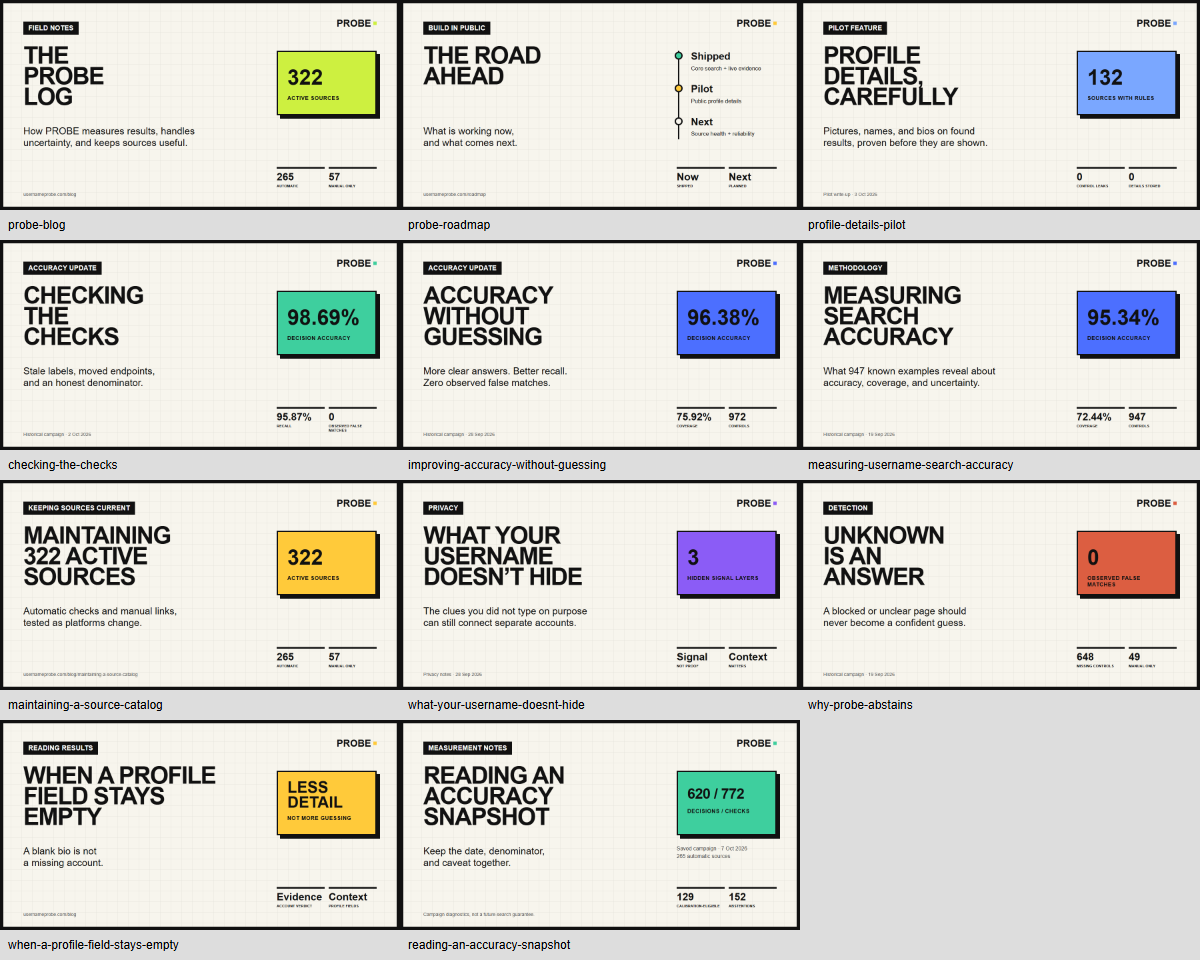
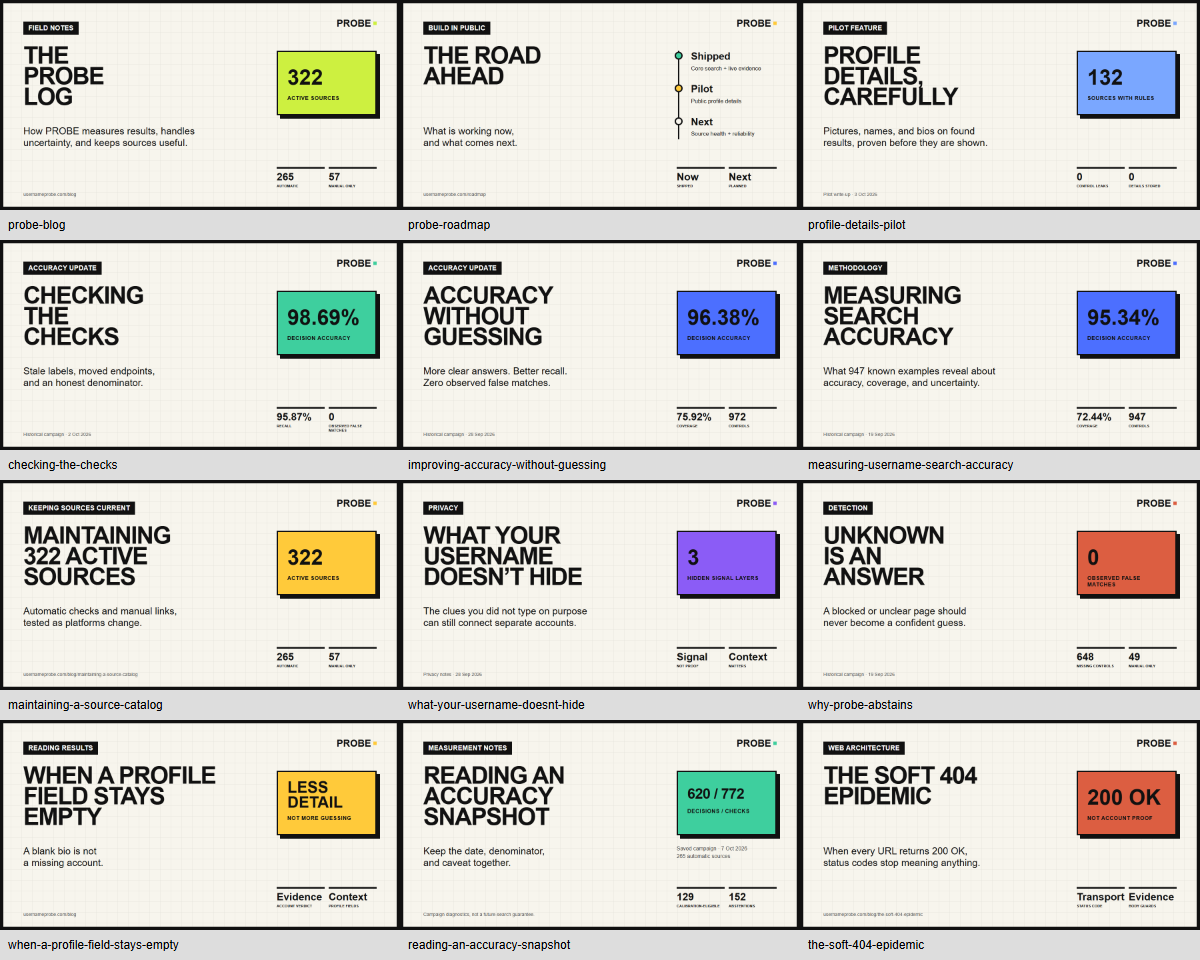
Publish articles on soft 404s and catalog decay
Add editorial posts covering single-page application soft-404 detection and catalog churn pruning. Include verified 1200x630 social preview cards matching the unified brand geometry, with clean routes, redirects, sitemap updates, captions, and tests.

Changed region(s): [[0.6475, 0.75, 1.0, 1.0]]

diff --git a/blog/the-soft-404-epidemic.html b/blog/the-soft-404-epidemic.html
@@ -1,0 +1,79 @@
+<!DOCTYPE html>
+<html lang="en">
+<head>
+  <meta charset="UTF-8">
+  <meta name="viewport" content="width=device-width, initial-scale=1.0">
+  <title>The Soft 404 Epidemic | PROBE</title>
+  <meta name="description" content="Why single-page applications and client-side routers break naive status-code scanners, and how PROBE requires positive proof before claiming a match.">
+  <link rel="canonical" href="https://usernameprobe.com/blog/the-soft-404-epidemic">
+  <link rel="icon" href="/favicon.svg" type="image/svg+xml">
+  <meta property="og:type" content="article">
+  <meta property="og:title" content="The Soft 404 Epidemic">
+  <meta property="og:description" content="When every URL returns 200 OK, status codes stop meaning anything. How modern web architecture creates phantom profiles.">
+  <meta property="og:url" content="https://usernameprobe.com/blog/the-soft-404-epidemic">
+  <meta property="og:image" content="https://usernameprobe.com/social/the-soft-404-epidemic.png?v=7">
+  <meta property="og:image:secure_url" content="https://usernameprobe.com/social/the-soft-404-epidemic.png?v=7">
+  <meta property="og:image:type" content="image/png">
+  <meta property="og:image:width" content="1200">
+  <meta property="og:image:height" content="630">
+  <meta property="og:image:alt" content="The Soft 404 Epidemic: HTTP 200 is not account proof when client-side apps return empty shells.">
+  <meta property="article:published_time" content="2026-10-12">
+  <meta property="article:modified_time" content="2026-10-12">
+  <meta name="twitter:card" content="summary_large_image">
+  <meta name="twitter:title" content="The Soft 404 Epidemic">
+  <meta name="twitter:description" content="When every URL returns 200 OK, status codes stop meaning anything. How modern web architecture creates phantom profiles.">
+  <meta name="twitter:image" content="https://usernameprobe.com/social/the-soft-404-epidemic.png?v=7">
+  <meta name="twitter:image:alt" content="The Soft 404 Epidemic: HTTP 200 is not account proof when client-side apps return empty shells.">
+  <script type="application/ld+json">
+  {
+    "@context": "https://schema.org",
+    "@type": "BlogPosting",
+    "headline": "The Soft 404 Epidemic",
+    "description": "Why single-page applications and client-side routers break naive status-code scanners, and how PROBE requires positive proof before claiming a match.",
+    "url": "https://usernameprobe.com/blog/the-soft-404-epidemic",
+    "mainEntityOfPage": "https://usernameprobe.com/blog/the-soft-404-epidemic",
+    "image": "https://usernameprobe.com/social/the-soft-404-epidemic.png?v=7",
+    "datePublished": "2026-10-12",
+    "dateModified": "2026-10-12",
+    "author": { "@type": "Organization", "name": "PROBE", "url": "https://usernameprobe.com/" },
+    "publisher": { "@type": "Organization", "name": "PROBE", "url": "https://usernameprobe.com/", "logo": { "@type": "ImageObject", "url": "https://usernameprobe.com/favicon.svg" } }
+  }
+  </script>
+  <link rel="preconnect" href="https://fonts.googleapis.com">
+  <link rel="preconnect" href="https://fonts.gstatic.com" crossorigin>
+  <link rel="stylesheet" href="https://fonts.googleapis.com/css2?family=Inter:wght@300;400;500;600;700&family=Outfit:wght@400;500;600;700&family=Bebas+Neue&display=swap">
+  <link rel="stylesheet" href="/styles.min.css?v=20">
+  <link rel="stylesheet" href="/editorial.min.css?v=4">
+</head>
+<body class="editorial-body">
+  <nav class="navbar editorial-nav"><div class="nav-container"><a href="/" class="nav-logo">PROBE</a><a class="editorial-nav-back" href="/blog/">All posts</a></div></nav>
+  <main class="editorial-main article-main">
+    <article>
+      <header class="article-header">
+        <p class="editorial-kicker">Web architecture</p>
+        <h1 class="editorial-title article-title">The Soft 404 Epidemic</h1>
+        <p class="editorial-deck">When modern single-page applications return HTTP 200 OK for every path, naive scanners find phantom profiles everywhere.</p>
+        <div class="article-meta"><time datetime="2026-10-12">12 October 2026</time><span>4 min read</span></div>
+      </header>
+      <div class="article-copy">
+        <p>In the early web, determining whether an account existed was relatively straightforward: an existing page returned <code>200 OK</code>, while an absent one returned <code>404 Not Found</code>. Many legacy open-source intelligence tools were built entirely on this assumption.</p>
+        <p>Today, that mental model is broken. Modern web applications built on client-side frameworks routinely return <code>200 OK</code> along with a generic HTML shell on every requested route, whether the username exists or not.</p>
+        <h2>Transport signal vs. resource signal</h2>
+        <p>Single-page applications (SPAs) shift routing from the web server to client-side JavaScript. When a request arrives at <code>/user/johndoe</code>, the edge server simply delivers <code>index.html</code> containing a skeleton layout and a script tag. The browser then executes the script, queries an API asynchronously, and decides whether to render a user profile or a "User not found" screen.</p>
+        <p>To an automated HTTP client, the HTTP status code is merely a transport signal confirming that the web server successfully delivered the application bundle. It tells you nothing about whether the profile itself exists. A scanner checking only HTTP response codes will report that every username exists on every SPA platform.</p>
+        <h2>The anatomy of positive proof</h2>
+        <p>Because response codes cannot be trusted in isolation, PROBE evaluates layers of evidence before classifying a result:</p>
+        <ul>
+          <li><strong>Paired negative baselines.</strong> A check rule is tested against random, synthetic handles known not to exist. If the site returns the exact same HTML structure and status code for a nonsense handle, status alone cannot serve as an existence marker.</li>
+          <li><strong>Body guards and negative patterns.</strong> When a platform returns an in-page 404 message within a 200 response (e.g., "Page not found", "User does not exist", or a redirect to an onboarding flow), PROBE matches source-specific absence patterns.</li>
+          <li><strong>Positive corroboration.</strong> For platforms prone to generic shells, PROBE requires verifiable positive markers—such as the username appearing in the page <code>&lt;title&gt;</code>, OpenGraph metadata tags, or specific server-rendered profile elements—before emitting a <code>found</code> verdict.</li>
+        </ul>
+        <h2>When evidence is missing: abstain</h2>
+        <p>What happens when a modern web app serves a minimal app shell without server-side rendering, and the client-side JavaScript refuses to render in a plain HTTP request? The response contains no positive profile markers, but also no clear error signal.</p>
+        <p>Many tools guess, or worse, mark it as positive based on the status code. PROBE classifies these responses as <code>unknown</code>. When web architecture obscures the presence of an account, an honest abstention is always better than a fabricated lead.</p>
+      </div>
+    </article>
+  </main>
+  <footer class="footer"><div class="container footer-inner"><div class="footer-brand"><span class="footer-logo">PROBE</span><p>Open-source username research with evidence-aware results.</p></div><nav class="footer-links" aria-label="Footer navigation"><div><span class="footer-label">Explore</span><a href="/#search">Search</a><a href="/#about">About</a><a href="/#sites">Platforms</a></div><div><span class="footer-label">Follow the work</span><a href="/blog/">Blog</a><a href="/roadmap">Roadmap</a></div><div><span class="footer-label">Use responsibly</span><a href="/privacy">Privacy &amp; acceptable use</a><a href="/#contact">Contact</a></div></nav></div><div class="container footer-bottom"><span>Public data is a lead, not proof. Verify before drawing conclusions.</span><span>&copy; 2026 PROBE</span></div></footer>
+</body>
+</html>

diff --git a/blog/decay-of-the-open-web.html b/blog/decay-of-the-open-web.html
@@ -1,0 +1,77 @@
+<!DOCTYPE html>
+<html lang="en">
+<head>
+  <meta charset="UTF-8">
+  <meta name="viewport" content="width=device-width, initial-scale=1.0">
+  <title>Decay of the Open Web | PROBE</title>
+  <meta name="description" content="Over half of historical OSINT username targets are defunct. Why catalog size is a vanity metric and ruthless source pruning protects scan integrity.">
+  <link rel="canonical" href="https://usernameprobe.com/blog/decay-of-the-open-web">
+  <link rel="icon" href="/favicon.svg" type="image/svg+xml">
+  <meta property="og:type" content="article">
+  <meta property="og:title" content="Decay of the Open Web">
+  <meta property="og:description" content="Over half of historical OSINT targets are defunct. Why pruning dead sources preserves scan speed and prevents phantom matches.">
+  <meta property="og:url" content="https://usernameprobe.com/blog/decay-of-the-open-web">
+  <meta property="og:image" content="https://usernameprobe.com/social/decay-of-the-open-web.png?v=7">
+  <meta property="og:image:secure_url" content="https://usernameprobe.com/social/decay-of-the-open-web.png?v=7">
+  <meta property="og:image:type" content="image/png">
+  <meta property="og:image:width" content="1200">
+  <meta property="og:image:height" content="630">
+  <meta property="og:image:alt" content="Decay of the Open Web: 341 defunct sources archived vs 322 active sources maintained. Pruning preserves integrity.">
+  <meta property="article:published_time" content="2026-10-12">
+  <meta property="article:modified_time" content="2026-10-12">
+  <meta name="twitter:card" content="summary_large_image">
+  <meta name="twitter:title" content="Decay of the Open Web">
+  <meta name="twitter:description" content="Over half of historical OSINT targets are defunct. Why pruning dead sources preserves scan speed and prevents phantom matches.">
+  <meta name="twitter:image" content="https://usernameprobe.com/social/decay-of-the-open-web.png?v=7">
+  <meta name="twitter:image:alt" content="Decay of the Open Web: 341 defunct sources archived vs 322 active sources maintained. Pruning preserves integrity.">
+  <script type="application/ld+json">
+  {
+    "@context": "https://schema.org",
+    "@type": "BlogPosting",
+    "headline": "Decay of the Open Web",
+    "description": "Over half of historical OSINT username targets are defunct. Why catalog size is a vanity metric and ruthless source pruning protects scan integrity.",
+    "url": "https://usernameprobe.com/blog/decay-of-the-open-web",
+    "mainEntityOfPage": "https://usernameprobe.com/blog/decay-of-the-open-web",
+    "image": "https://usernameprobe.com/social/decay-of-the-open-web.png?v=7",
+    "datePublished": "2026-10-12",
+    "dateModified": "2026-10-12",
+    "author": { "@type": "Organization", "name": "PROBE", "url": "https://usernameprobe.com/" },
+    "publisher": { "@type": "Organization", "name": "PROBE", "url": "https://usernameprobe.com/", "logo": { "@type": "ImageObject", "url": "https://usernameprobe.com/favicon.svg" } }
+  }
+  </script>
+  <link rel="preconnect" href="https://fonts.googleapis.com">
+  <link rel="preconnect" href="https://fonts.gstatic.com" crossorigin>
+  <link rel="stylesheet" href="https://fonts.googleapis.com/css2?family=Inter:wght@300;400;500;600;700&family=Outfit:wght@400;500;600;700&family=Bebas+Neue&display=swap">
+  <link rel="stylesheet" href="/styles.min.css?v=20">
+  <link rel="stylesheet" href="/editorial.min.css?v=4">
+</head>
+<body class="editorial-body">
+  <nav class="navbar editorial-nav"><div class="nav-container"><a href="/" class="nav-logo">PROBE</a><a class="editorial-nav-back" href="/blog/">All posts</a></div></nav>
+  <main class="editorial-main article-main">
+    <article>
+      <header class="article-header">
+        <p class="editorial-kicker">Catalog churn</p>
+        <h1 class="editorial-title article-title">Decay of the Open Web</h1>
+        <p class="editorial-deck">Over half of historical username targets no longer exist. Why catalog size is a vanity metric that harms scan fidelity.</p>
+        <div class="article-meta"><time datetime="2026-10-12">12 October 2026</time><span>4 min read</span></div>
+      </header>
+      <div class="article-copy">
+        <p>In the open-source intelligence community, there is a persistent temptation to compete on raw catalog counts. Tools advertise "500+ sites," "1,000+ sources," or "comprehensive global coverage." Yet when you inspect the underlying lists, a surprising proportion of those domains are dead, parked, or broken.</p>
+        <p>In PROBE's source history, <strong>341 catalog entries are now defunct</strong>, while <strong>322 functional sources</strong> remain active (265 automatic checks and 57 manual links). Over half of the platforms ever indexed have ceased to function as public profile hosts.</p>
+        <div class="article-metric" aria-label="Catalog comparison"><div><strong>322</strong><span>active functional sources</span></div><div><strong>341</strong><span>archived defunct targets</span></div><div><strong>44</strong><span>recently trimmed blocked sources</span></div></div>
+        <h2>The true cost of dead sources</h2>
+        <p>Leaving dead domains in an active scanner is not harmless padding; it actively corrupts scan performance and result quality:</p>
+        <ul>
+          <li><strong>DNS timeouts and connection hangs.</strong> When an expired domain fails to resolve or routes to an abandoned nameserver, requests hang until client deadlines elapse. A scan intended to finish in seconds bogs down waiting for unresolvable hosts.</li>
+          <li><strong>Parked domains and wildcards.</strong> Expired startup domains are frequently snapped up by domain squatters who configure wildcard DNS. Every path—from <code>/johndoe</code> to <code>/gibberish12345</code>—returns a <code>200 OK</code> ad parking page. A naive scanner interprets this as a confirmed match.</li>
+          <li><strong>Domain takeovers and security risks.</strong> Defunct domains can be re-registered to host phishing or malicious redirection, exposing users who click into external verification links to potential harm.</li>
+        </ul>
+        <h2>Why pruning beats inflation</h2>
+        <p>Recently, PROBE removed 44 catalog entries that consistently blocked requests or failed to provide reliable public signals. Rather than keeping them to inflate our marketing headline to "366 sources," we pruned them from the primary scan pipeline and quarantined them for targeted lab analysis.</p>
+        <p>A smaller, rigorously verified catalog of 322 sources finishes faster, produces zero false positives in continuous calibration testing, and respects the researcher's time. In username intelligence, what you choose not to check is just as important as what you do.</p>
+      </div>
+    </article>
+  </main>
+  <footer class="footer"><div class="container footer-inner"><div class="footer-brand"><span class="footer-logo">PROBE</span><p>Open-source username research with evidence-aware results.</p></div><nav class="footer-links" aria-label="Footer navigation"><div><span class="footer-label">Explore</span><a href="/#search">Search</a><a href="/#about">About</a><a href="/#sites">Platforms</a></div><div><span class="footer-label">Follow the work</span><a href="/blog/">Blog</a><a href="/roadmap">Roadmap</a></div><div><span class="footer-label">Use responsibly</span><a href="/privacy">Privacy &amp; acceptable use</a><a href="/#contact">Contact</a></div></nav></div><div class="container footer-bottom"><span>Public data is a lead, not proof. Verify before drawing conclusions.</span><span>&copy; 2026 PROBE</span></div></footer>
+</body>
+</html>

diff --git a/blog/index.html b/blog/index.html
@@ -31,6 +31,8 @@
     "url": "https://usernameprobe.com/blog/",
     "publisher": { "@type": "Organization", "name": "PROBE", "url": "https://usernameprobe.com/" },
     "blogPost": [
+      { "@type": "BlogPosting", "headline": "The Soft 404 Epidemic", "url": "https://usernameprobe.com/blog/the-soft-404-epidemic", "datePublished": "2026-10-12" },
+      { "@type": "BlogPosting", "headline": "Decay of the Open Web", "url": "https://usernameprobe.com/blog/decay-of-the-open-web", "datePublished": "2026-10-12" },
       { "@type": "BlogPosting", "headline": "When a Profile Field Stays Empty", "url": "https://usernameprobe.com/blog/when-a-profile-field-stays-empty", "datePublished": "2026-10-07" },
       { "@type": "BlogPosting", "headline": "Reading an Accuracy Snapshot", "url": "https://usernameprobe.com/blog/reading-an-accuracy-snapshot", "datePublished": "2026-10-07" },
       { "@type": "BlogPosting", "headline": "Profile Details, Carefully", "url": "https://usernameprobe.com/blog/profile-details-pilot", "datePublished": "2026-10-03" },
@@ -71,6 +73,16 @@
     </header>
 
     <div class="post-list" aria-label="Blog posts">
+      <a class="post-row" href="/blog/the-soft-404-epidemic">
+        <time class="post-date" datetime="2026-10-12">12 Oct 2026</time>
+        <div><h2>The Soft 404 Epidemic</h2><p>When modern single-page applications return HTTP 200 OK for every path, naive scanners find phantom profiles everywhere.</p></div>
+        <span class="post-arrow" aria-hidden="true">↗</span>
+      </a>
+      <a class="post-row" href="/blog/decay-of-the-open-web">
+        <time class="post-date" datetime="2026-10-12">12 Oct 2026</time>
+        <div><h2>Decay of the Open Web</h2><p>Over half of historical username targets no longer exist. Why catalog size is a vanity metric that harms scan fidelity.</p></div>
+        <span class="post-arrow" aria-hidden="true">↗</span>
+      </a>
       <a class="post-row" href="/blog/when-a-profile-field-stays-empty">
         <time class="post-date" datetime="2026-10-07">7 Oct 2026</time>
         <div><h2>When a Profile Field Stays Empty</h2><p>A blank bio is not a missing account. How to read unavailable profile details without turning them into identity claims.</p></div>

diff --git a/test/editorial-publishing.test.js b/test/editorial-publishing.test.js
@@ -9,7 +9,12 @@ const test = require('node:test');
 const cheerio = require('cheerio');
 
 const root = path.join(__dirname, '..');
-const slugs = ['when-a-profile-field-stays-empty', 'reading-an-accuracy-snapshot'];
+const slugs = [
+  'the-soft-404-epidemic',
+  'decay-of-the-open-web',
+  'when-a-profile-field-stays-empty',
+  'reading-an-accuracy-snapshot',
+];
 const read = file => fs.readFileSync(path.join(root, file), 'utf8').replace(/\r\n/g, '\n');
 
 test('new articles have consistent SEO, discovery links and local assets', () => {
@@ -24,7 +29,7 @@ test('new articles have consistent SEO, discovery links and local assets', () =>
     assert.equal(structured.url, canonical);
     assert.equal(structured.mainEntityOfPage, canonical);
     assert.equal(structured.headline, $('h1').text());
-    assert.equal(structured.datePublished, '2026-10-07');
+    assert.ok(structured.datePublished);
     const image = `https://usernameprobe.com/social/${slug}.png?v=7`;
     for (const selector of ['meta[property="og:image"]', 'meta[property="og:image:secure_url"]', 'meta[name="twitter:image"]']) {
       assert.equal($(selector).attr('content'), image);

diff --git a/social/render-cards.js b/social/render-cards.js
@@ -103,6 +103,22 @@ const cards = [
     foot: 'Campaign diagnostics, not a future-search guarantee.',
     stats: [['129', 'CALIBRATION-ELIGIBLE'], ['152', 'ABSTENTIONS']],
   },
+  {
+    slug: 'the-soft-404-epidemic', kicker: 'WEB ARCHITECTURE', accent: STYLE.red,
+    title: 'THE SOFT 404<br>EPIDEMIC',
+    deck: 'When every URL returns 200 OK,<br>status codes stop meaning anything.',
+    metric: '200 OK', metricLabel: 'NOT ACCOUNT PROOF',
+    foot: 'usernameprobe.com/blog/the-soft-404-epidemic',
+    stats: [['Transport', 'STATUS CODE'], ['Evidence', 'BODY GUARDS']],
+  },
+  {
+    slug: 'decay-of-the-open-web', kicker: 'CATALOG CHURN', accent: STYLE.yellow,
+    title: 'DECAY OF<br>THE OPEN WEB',
+    deck: 'Over half of historical targets<br>no longer exist. Why pruning matters.',
+    side: '<div class="panel"><strong class="ratio">341 / 322</strong><span>DEFUNCT / ACTIVE</span></div><p class="note">Source catalog analysis<br>265 automatic sources</p>',
+    foot: 'usernameprobe.com/blog/decay-of-the-open-web',
+    stats: [['341', 'DEFUNCT SOURCES'], ['322', 'ACTIVE SOURCES']],
+  },
 ];
 
 function template(card) {

diff --git a/test/social-cards.test.js b/test/social-cards.test.js
@@ -20,7 +20,7 @@ const originalSlugs = [
 
 test('reproducible renderer includes every original and new social card exactly once', () => {
   const files = fs.readdirSync(path.join(root, 'social')).filter(file => file.endsWith('.png')).sort();
-  assert.equal(cards.length, 11);
+  assert.equal(cards.length, 13);
   assert.equal(new Set(cards.map(card => card.slug)).size, cards.length);
   assert.deepEqual(files, cards.map(card => `${card.slug}.png`).sort());
   for (const slug of originalSlugs) assert.ok(cards.some(card => card.slug === slug), slug);

diff --git a/server.js b/server.js
@@ -2852,6 +2852,8 @@ function isPrivateScript(filePath) {
 const CLEAN_PAGE_ROUTES = new Map([
   ['/roadmap', 'roadmap.html'],
   ['/privacy', 'privacy.html'],
+  ['/blog/the-soft-404-epidemic', 'blog/the-soft-404-epidemic.html'],
+  ['/blog/decay-of-the-open-web', 'blog/decay-of-the-open-web.html'],
   ['/blog/when-a-profile-field-stays-empty', 'blog/when-a-profile-field-stays-empty.html'],
   ['/blog/reading-an-accuracy-snapshot', 'blog/reading-an-accuracy-snapshot.html'],
   ['/blog/profile-details-pilot', 'blog/profile-details-pilot.html'],
